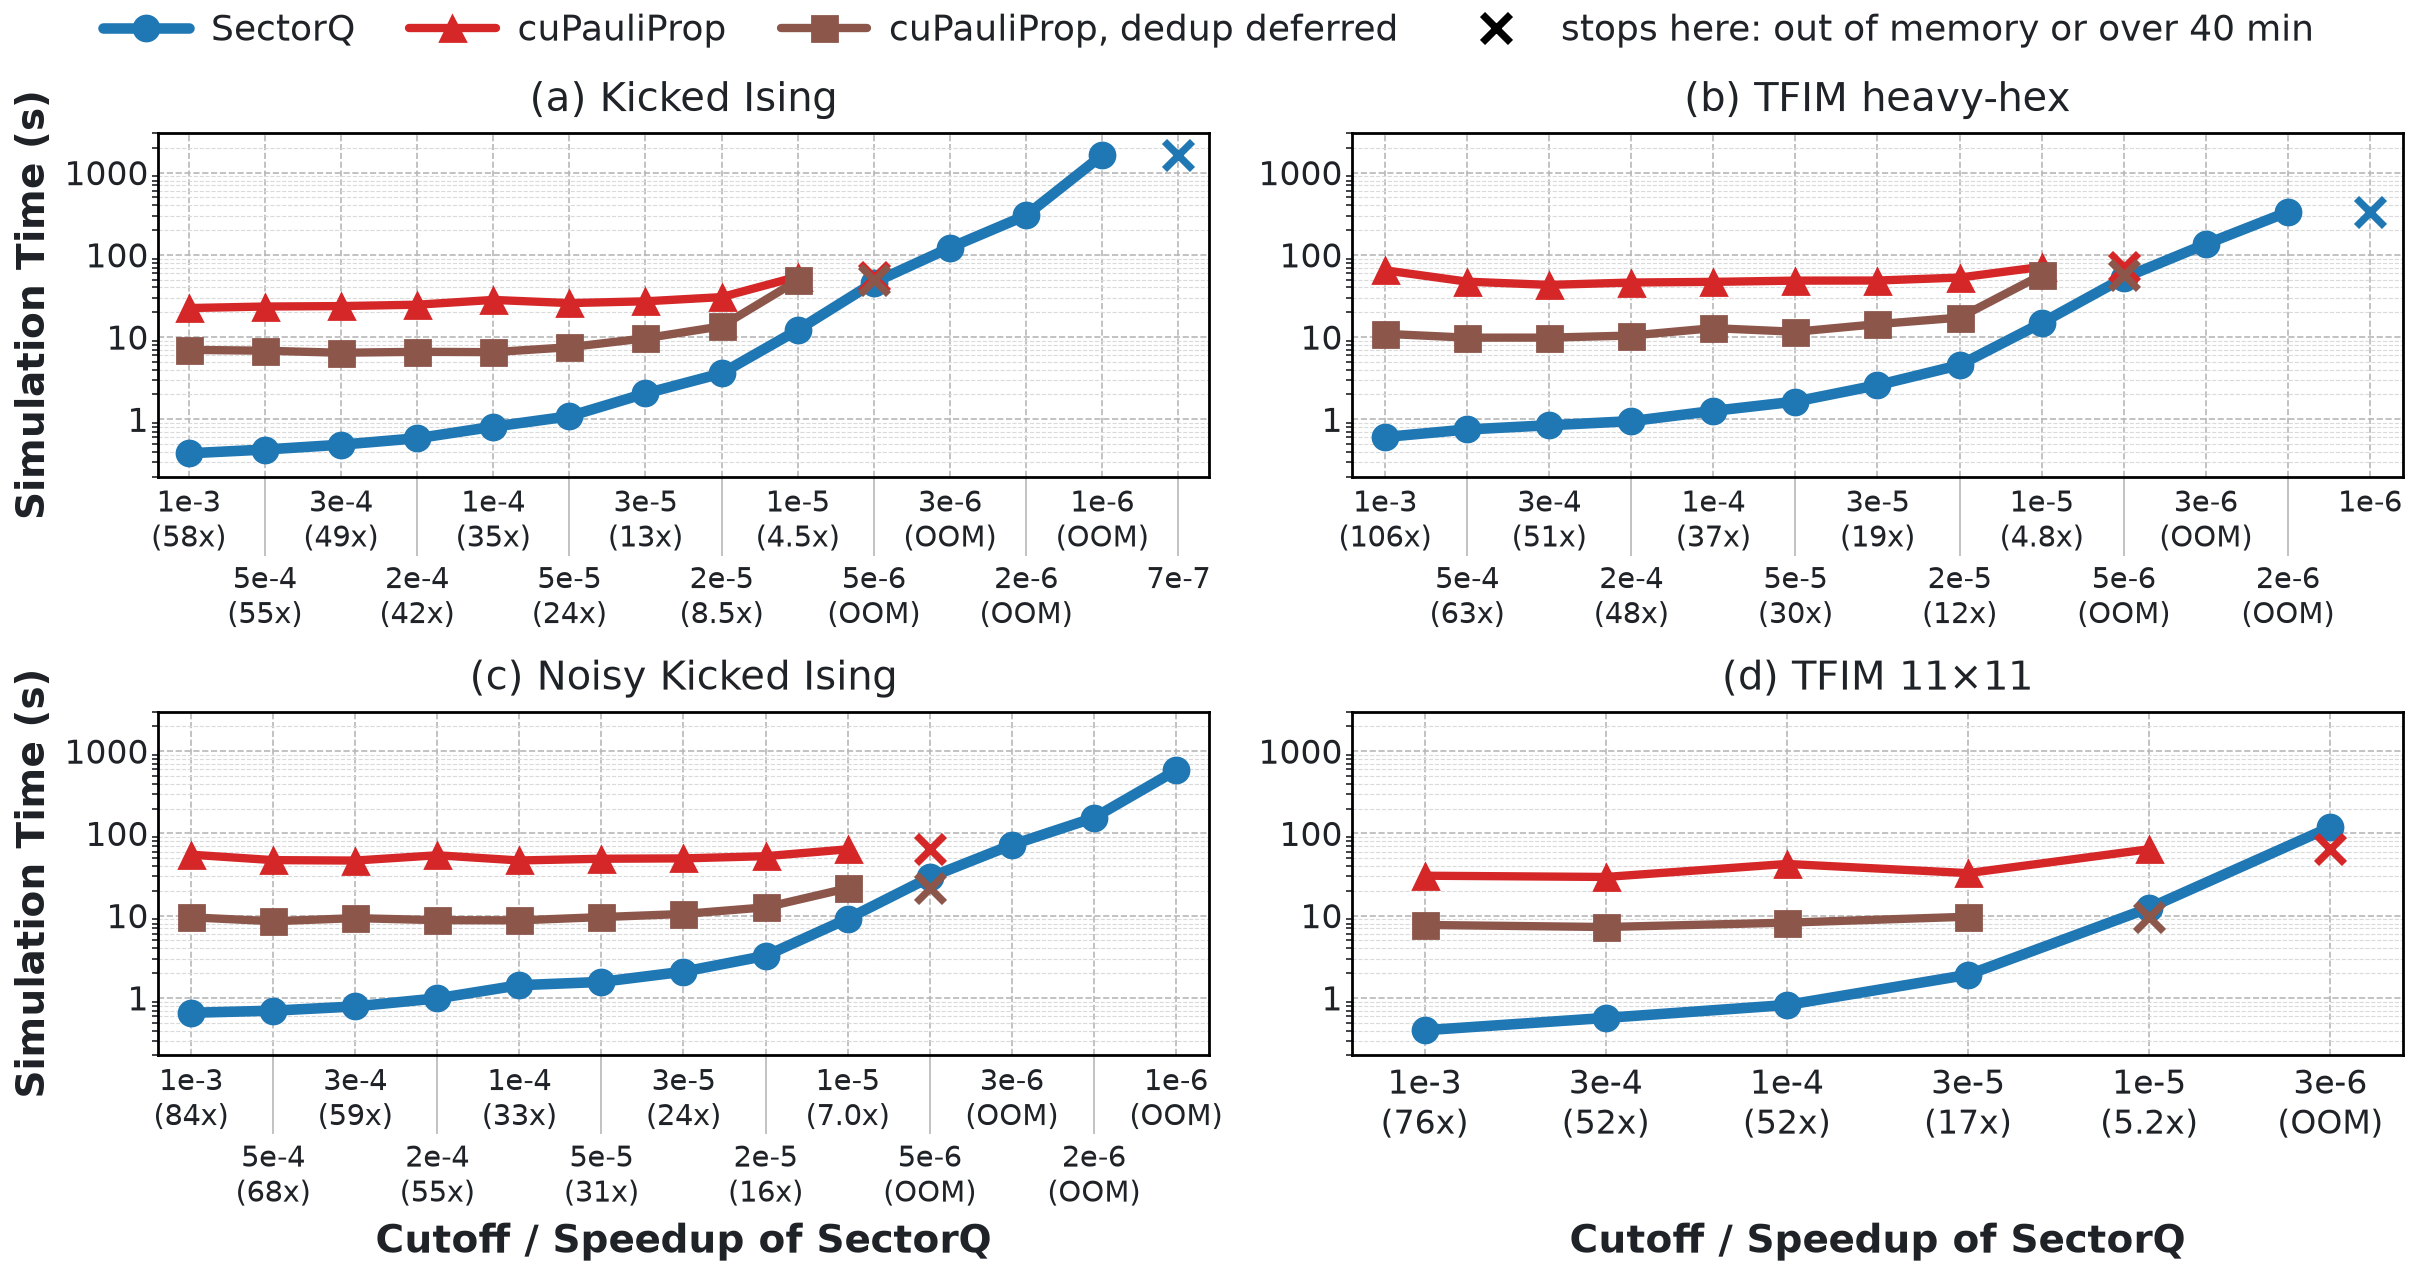
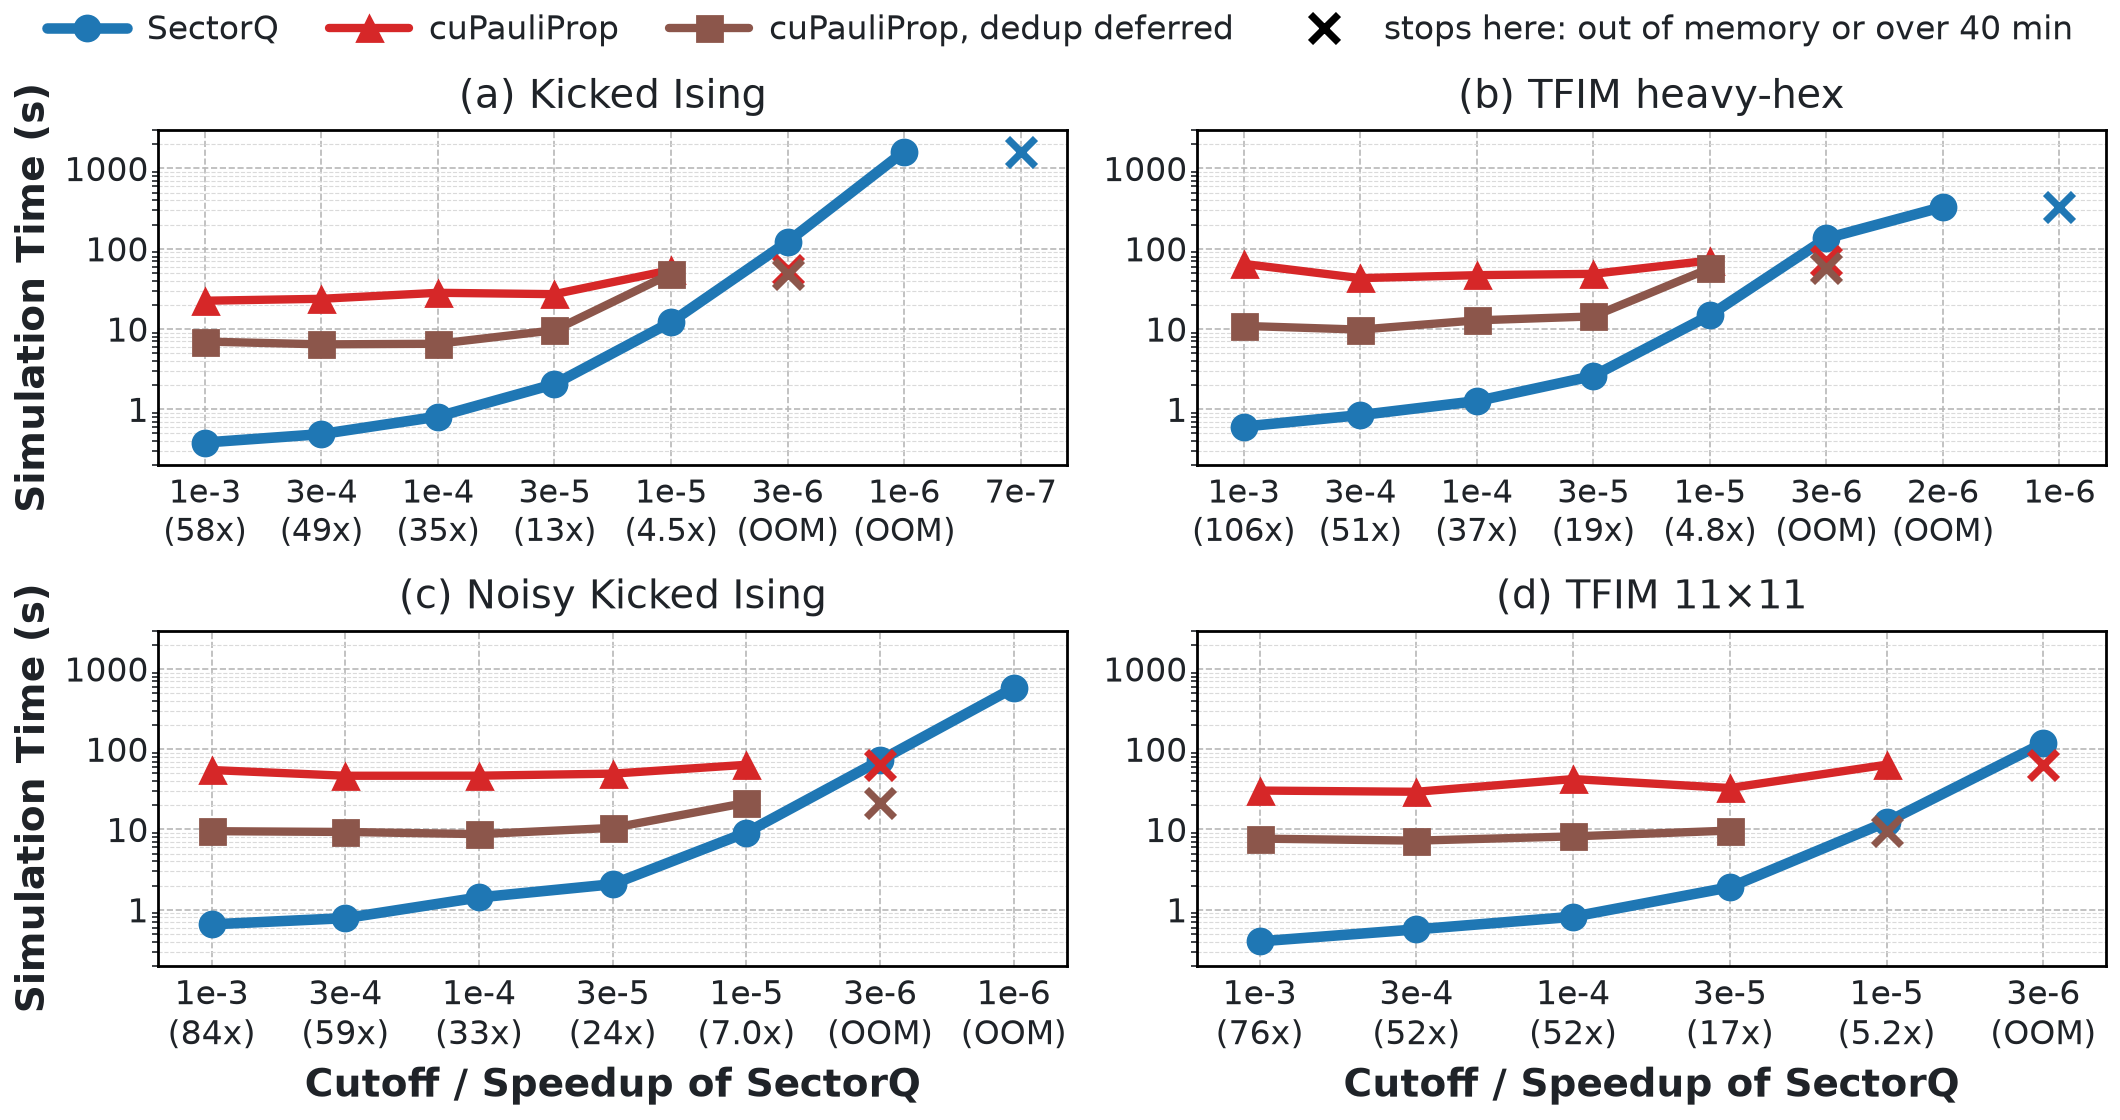
Deck figure of the circuits: one line of tick labels
The slide panels showed every cutoff of the ladder (up to 14), so every second tick label was moved to a second
line. They now show the steps 1e-k and 3e-k, the last cutoff each implementation finished and the last step of the
ladder (at most 8 ticks), on one line and in a larger type. The README figure keeps every cutoff.

Changed region(s): [[0.0, 0.0625, 0.9962, 1.0], [0.0, 0.0, 0.9651, 0.0625]]

diff --git a/figures/make_deck_figures.py b/figures/make_deck_figures.py
@@ -505,12 +505,22 @@ def d_breakdown():
     finish(fig, "d_breakdown", top - 0.08 / H, hgap=0.12, free=[axes[1].yaxis.label])
 
 
+def slide_ladder(G, c, cutoffs, g):
+    """The cutoffs of a panel on a slide, few enough for one line of tick labels: the steps 1e-k and 3e-k, the last
+    cutoff each implementation finished, and the last step of the ladder (where SectorQ stops)."""
+    last = set()
+    for kind in ("ours", "cupp", "defer"):
+        done = [x for x, rec in zip(cutoffs, mf.sq_runs(G, kind, c, cutoffs, f"g{g}")) if mf.gok(rec)]
+        last.update(done[-1:])
+    return [x for x in cutoffs if x[0] in "13" or x in last or x == cutoffs[-1]]
+
+
 def d_circuits(name, which, legend_cell, scale=1.0):
-    """`scale` > 1: a larger picture of the same shape, for panels whose tick labels take two staggered lines."""
+    """`scale` > 1: a larger picture of the same shape (smaller text on the slide)."""
     fig, axes = plt.subplots(2, 2, figsize=(W * scale, H * scale))
     flat = [a for row in axes for a in row]
     panels = flat[:len(which)]
-    mf.g_circuits(campaign(), axes=panels, which=which)
+    mf.g_circuits(campaign(), axes=panels, which=which, keep=slide_ladder)
     for ax in panels:
         if len(ax.get_xticks()) > 9:
             stagger(ax, 10.5)
@@ -530,7 +540,7 @@ def d_circuits(name, which, legend_cell, scale=1.0):
 
 
 def d_circuits_a():
-    d_circuits("d_circuits_a", ("ki", "tfim", "noise", "tfimsq"), False, scale=1.14)
+    d_circuits("d_circuits_a", ("ki", "tfim", "noise", "tfimsq"), False)
 
 
 def d_circuits_b():

diff --git a/figures/make_eval_figures.py b/figures/make_eval_figures.py
@@ -932,10 +932,11 @@ def g_strong(G, c="ki", cutoffs=("1e-4", "3e-5", "1e-5", "3e-6", "1e-6"), axes=N
     return rows
 
 
-def g_circuits(G, g=16, axes=None, which=None):
+def g_circuits(G, g=16, axes=None, which=None, keep=None):
     """Seven circuits on 16 GPUs: SectorQ against cuPauliProp's two distributed modes, time against the problem size.
     Every cutoff of a panel has its tick; below it the speedup of SectorQ over cuPauliProp's distributed mode.
-    With `axes` (panels of another figure, make_deck_figures.py) only the circuits `which` are drawn, one per panel."""
+    With `axes` (panels of another figure, make_deck_figures.py) only the circuits `which` are drawn, one per panel;
+    `keep(G, circuit, cutoffs, g)` then chooses the cutoffs of a panel (a slide shows fewer steps than the README)."""
     fig, flat = None, axes
     if axes is None:
         fig, axes = plt.subplots(4, 2, figsize=(15.6, 15.4), gridspec_kw={"wspace": 0.14, "hspace": 0.5})
@@ -945,6 +946,8 @@ def g_circuits(G, g=16, axes=None, which=None):
         ax = flat[j]
         cutoffs = gladder(G, f"eng.{c}", f"g{g}")
         cutoffs = greached(G, f"eng.{c}", f"g{g}", [x for x in cutoffs if "." not in x and x not in ("15e-7", "12e-7")])
+        if keep is not None:
+            cutoffs = keep(G, c, cutoffs, g)
         got = {}
         for kind in ("ours", "cupp", "defer"):
             recs, pts, fail = sq_line(ax, G, kind, c, cutoffs, f"g{g}", label=SQ_NAME[kind] if j == 0 else None, lw=3.8 if kind == "ours" else 3.0, ms=9)
